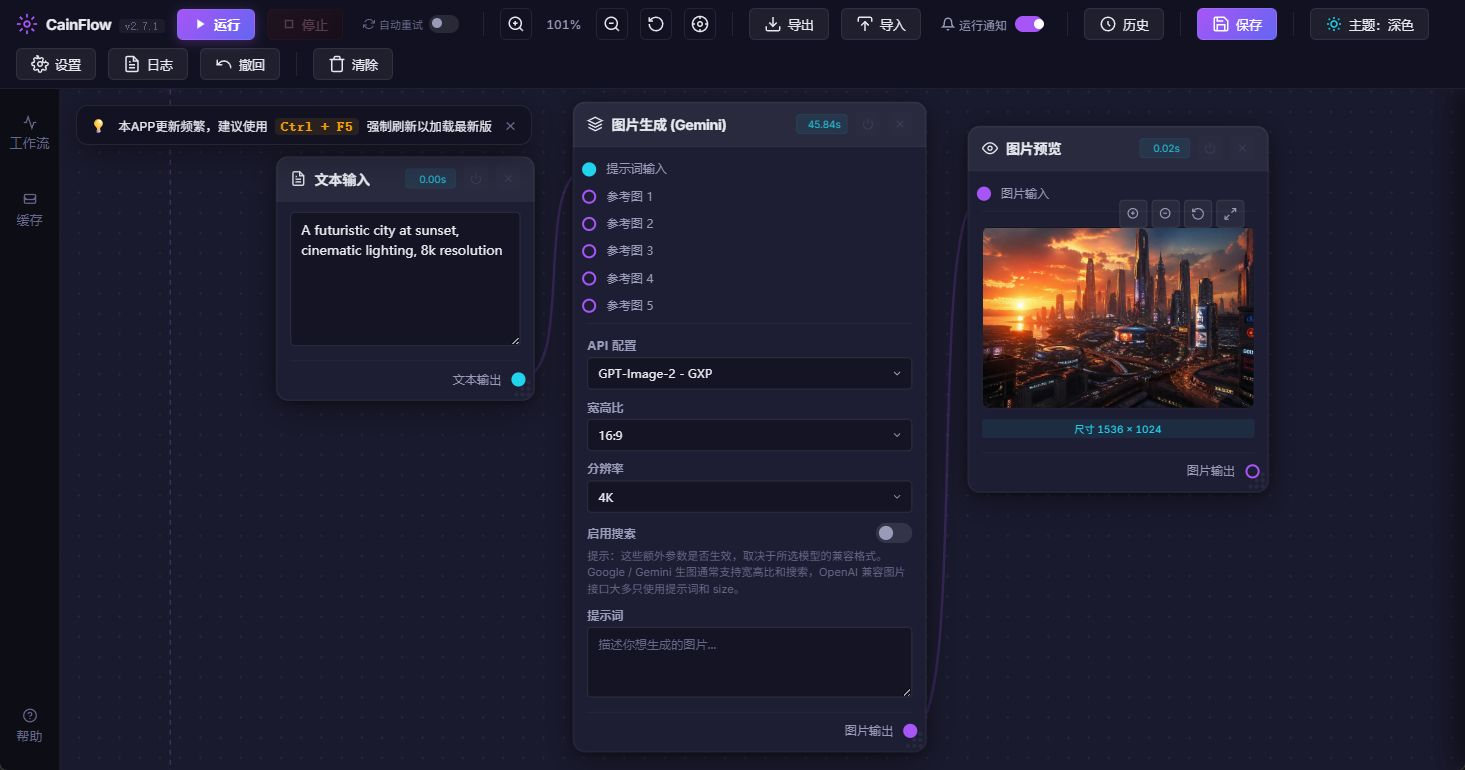
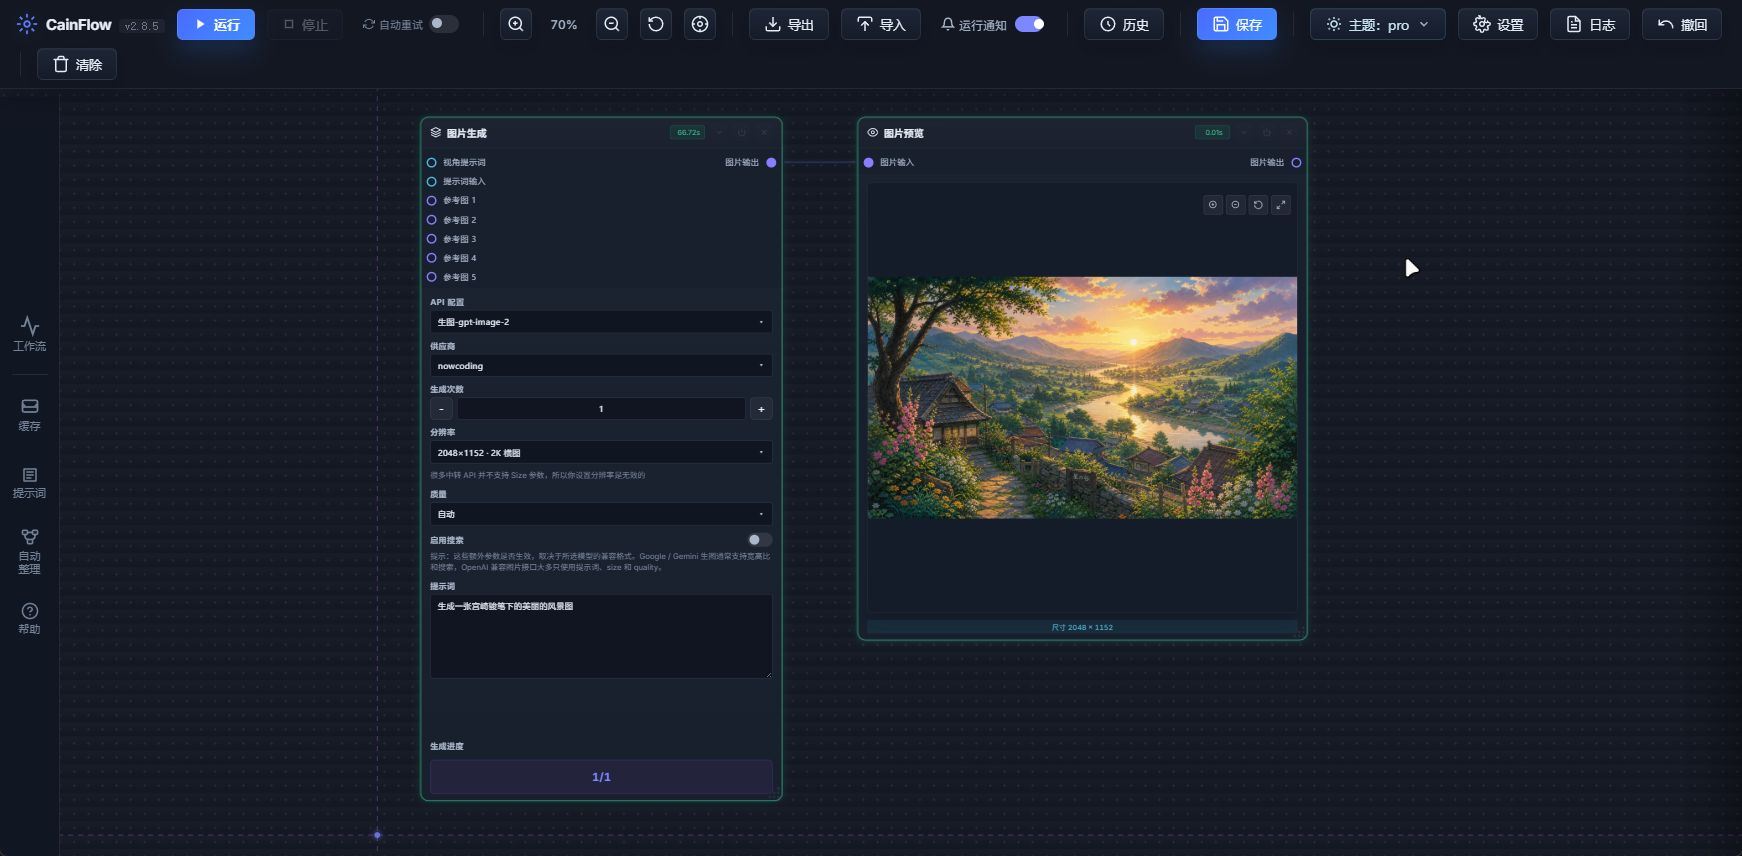
更新 README.md，新增用户手册；调整 CSS 以支持侧边栏和工具栏的动态显示；增强工具栏控制逻辑，确保画布缩放适应可视区域

diff --git a/js/features/ui/toolbar-controller.js b/js/features/ui/toolbar-controller.js
@@ -30,6 +30,27 @@ export function createToolbarControllerApi({
         }, 120);
     }
 
+    function isChromeActive(element, activeClass) {
+        if (!element) return false;
+        const body = documentRef.body;
+        return body.classList.contains(activeClass)
+            || element.matches(':hover')
+            || element.matches(':focus-within')
+            || element.querySelector('.btn.active, [aria-expanded="true"]');
+    }
+
+    function getViewportSafeInsets() {
+        const toolbar = documentRef.getElementById('toolbar');
+        const sidebar = documentRef.getElementById('side-bar');
+        const topInset = isChromeActive(toolbar, 'toolbar-peek-active')
+            ? ((toolbar?.offsetHeight || 48) + 8)
+            : 0;
+        const leftInset = isChromeActive(sidebar, 'sidebar-peek-active')
+            ? (sidebar?.offsetWidth || 60)
+            : 0;
+        return { topInset, leftInset };
+    }
+
     function zoomToFit(targetNodes = null) {
         let nodesToFit = targetNodes;
         if (!nodesToFit) {
@@ -64,13 +85,18 @@ export function createToolbarControllerApi({
         const worldH = (maxY - minY) + padding * 2;
         const viewW = canvasContainer.clientWidth;
         const viewH = canvasContainer.clientHeight;
+        const { topInset, leftInset } = getViewportSafeInsets();
+        const safeViewW = Math.max(120, viewW - leftInset);
+        const safeViewH = Math.max(120, viewH - topInset);
 
-        const zoom = Math.min(viewW / worldW, viewH / worldH, 1.2);
+        const zoom = Math.min(safeViewW / worldW, safeViewH / worldH, 1.2);
         const finalZoom = Math.max(0.1, zoom);
+        const safeCenterX = leftInset + safeViewW / 2;
+        const safeCenterY = topInset + safeViewH / 2;
 
         state.canvas.zoom = finalZoom;
-        state.canvas.x = viewW / 2 - (minX + maxX) / 2 * finalZoom;
-        state.canvas.y = viewH / 2 - (minY + maxY) / 2 * finalZoom;
+        state.canvas.x = safeCenterX - (minX + maxX) / 2 * finalZoom;
+        state.canvas.y = safeCenterY - (minY + maxY) / 2 * finalZoom;
 
         viewportApi.updateCanvasTransform();
     }

diff --git a/css/legacy.css b/css/legacy.css
@@ -4092,10 +4092,11 @@ input[type=number] {
 /* Drawer (Sidebar) System */
 .drawer {
     position: absolute;
-    top: 0;
-    bottom: 0;
+    top: var(--drawer-top-offset, 0px);
+    bottom: auto;
     right: -320px;
     width: 320px;
+    height: calc(100vh - var(--drawer-top-offset, 0px));
     background: var(--panel-bg);
     border-left: 1px solid var(--panel-border);
     box-shadow: var(--panel-shadow-soft);
@@ -4104,6 +4105,15 @@ input[type=number] {
     display: flex;
     flex-direction: column;
     overflow: hidden;
+}
+
+body.toolbar-pinned .drawer,
+body.toolbar-peek-active .drawer,
+body:has(#toolbar:hover) .drawer,
+body:has(#toolbar:focus-within) .drawer,
+body:has(#toolbar .btn.active) .drawer,
+body:has(#toolbar [aria-expanded="true"]) .drawer {
+    --drawer-top-offset: calc(var(--toolbar-height, 48px) + 8px);
 }
 
 .drawer.active {

diff --git a/USER_GUIDE.md b/USER_GUIDE.md
@@ -1,0 +1,204 @@
+# CainFlow 使用手册
+
+这份手册只讲一件事：第一次打开 CainFlow 之后，怎样把它跑起来，并成功生成第一张图片。
+
+## 第一步：启动 CainFlow
+
+如果你使用的是发布版：
+
+1. 解压下载好的压缩包。
+2. 双击 `CainFlow.exe`。
+3. 等待浏览器自动打开 `http://127.0.0.1:8767`。
+
+如果浏览器没有自动打开，就手动访问 `http://127.0.0.1:8767`。
+
+## 第二步：打开设置面板
+
+进入主界面后，先打开设置面板。
+
+你需要在这里完成两件事：
+
+1. 添加 API 供应商。
+2. 添加模型，并把模型绑定到供应商。
+
+只有这两步配置完成后，图片生成节点里才会出现可选模型。
+
+## 第三步：添加 API 供应商
+
+在设置面板里找到供应商配置区域，然后新增一个供应商。
+
+需要填写的内容通常有这几项：
+
+- **供应商名称**：随便起一个你看得懂的名字，比如 `OpenAI`、`Gemini`、`我的中转站`。
+- **API 密钥**：填写供应商给你的 Key。
+- **API 地址**：填写供应商的接口基址，不要填官网首页。
+- **自动补全**：建议保持开启。CainFlow 会根据模型类型自动补全请求路径。
+
+### 常见填写示例
+
+如果你用的是 OpenAI 兼容接口：
+
+- API 地址一般类似 `https://api.openai.com`
+- 也可能是第三方中转地址，例如你自己供应商提供的域名
+
+如果你用的是 Gemini / Google 接口：
+
+- API 地址一般类似 `https://generativelanguage.googleapis.com`
+
+### 这里最容易填错的地方
+
+- 不要把 API 地址填成官网首页。
+- 不要漏掉 `http://` 或 `https://`。
+- 如果是第三方中转平台，要确认这个平台真的支持你后面要用的图片模型。
+
+填完以后保存。
+
+## 第四步：添加模型
+
+供应商配置好之后，接着去模型配置区域添加模型。
+
+你有两种方式：
+
+### 方式一：自动获取模型列表
+
+如果供应商支持读取模型列表：
+
+1. 在该供应商卡片上点击“获取模型列表”。
+2. 等待 CainFlow 拉取模型。
+3. 在弹出的列表里选择你要用的模型并添加。
+
+这是最省事的方式，适合大多数情况。
+
+### 方式二：手动添加模型
+
+如果供应商不支持自动拉取，或者你已经知道模型名，就手动添加。
+
+你需要填写：
+
+- **模型名称**：显示在界面里的名字，可以自己起，例如 `生图-gpt-image-2`。
+- **模型代码（Model ID）**：供应商文档里的真实模型 ID，例如 `gpt-image-2`。
+- **绑定供应商**：选择你刚才添加的那个供应商。
+- **模型用途**：如果这个模型是用来生成图片的，这里一定要选 `生图`。
+
+这一项很关键。
+
+如果模型用途不是 `生图`，它就不会正确出现在图片生成节点里。
+
+## 第五步：检查模型是否配置成功
+
+配置完成后，可以简单确认一下：
+
+1. 回到画布。
+2. 新建一个“图片生成”节点。
+3. 查看节点里的模型下拉框。
+
+如果你刚刚添加的模型已经出现在下拉框里，说明供应商和模型配置成功了。
+
+如果这里还是空的，通常是下面这几种原因：
+
+- 模型没有绑定供应商。
+- 模型用途没有选 `生图`。
+- 供应商没有保存成功。
+- API 地址或配置有问题，导致模型列表虽然加了，但实际不可用。
+
+## 第六步：创建第一条生图流程
+
+现在开始正式生图。
+
+建议第一次只用 3 个节点：
+
+1. 文本输入
+2. 图片生成
+3. 图片预览
+
+### 具体操作
+
+1. 在画布空白处右键。
+2. 添加一个“文本输入”节点。
+3. 再添加一个“图片生成”节点。
+4. 再添加一个“图片预览”节点。
+
+然后把它们连起来：
+
+- 文本输入 -> 图片生成
+- 图片生成 -> 图片预览
+
+这就是最基础、最稳定的第一条生图链路。
+
+## 第七步：填写生图参数
+
+在“文本输入”节点里输入你的提示词。
+
+例如：
+
+```text
+a cinematic portrait of a girl, soft lighting, detailed hair, high quality
+```
+
+然后打开“图片生成”节点，重点检查下面几项：
+
+- **模型**：选择你刚才配置好的图片模型。
+- **分辨率**：先用常规尺寸测试，例如 `1024x1024`。
+- **质量**：如果你使用的是 OpenAI / GPT 图片模型，可以选 `auto`、`low`、`medium` 或 `high`。
+
+第一次建议这样选：
+
+- 分辨率用 `1024x1024`
+- 质量用 `auto`
+
+这样更稳，也更容易先测通流程。
+
+## 第八步：开始生成图片
+
+确认连线和参数都没问题后，点击运行。
+
+正常情况下：
+
+1. 图片生成节点开始请求。
+2. 节点顶部会显示运行状态点。
+3. 生成完成后，图片会出现在图片预览节点中。
+
+点击预览图可以进入大图查看。
+
+## 第九步：如果生成失败，先看这几个地方
+
+如果第一张图没有成功出来，优先检查下面几项：
+
+### 1. API Key 是否正确
+
+- 有没有填错
+- 有没有多余空格
+- 这把 key 是否真的属于当前供应商
+
+### 2. API 地址是否正确
+
+- 是否填写成了官网首页
+- 是否漏掉了协议头
+- 是否和当前供应商文档一致
+
+### 3. 模型和供应商是否匹配
+
+例如：
+
+- `gpt-image-2` 应该挂在 OpenAI 兼容供应商上
+- Gemini 模型应该挂在 Gemini / Google 对应接口上
+
+### 4. 模型用途是否选成了“生图”
+
+如果模型用途填错，图片生成节点通常就不会正常工作。
+
+### 5. 当前供应商是否真的支持这个图片模型
+
+很多中转平台并不是所有图片模型都支持，尤其是图片生成和图片编辑接口，支持情况可能不一样。
+
+## 第十步：跑通后你可以继续做什么
+
+当第一张图已经能正常出来后，你就可以继续扩展流程了，比如：
+
+- 在图片生成后面接“图片保存”节点
+- 一次生成多张图
+- 打开自动重试
+- 用历史记录面板回看结果
+- 给图片生成节点增加参考图
+
+建议先把最基础的“文本输入 -> 图片生成 -> 图片预览”跑通，再往后加功能，这样最不容易排错。

diff --git a/README.md b/README.md
@@ -1,9 +1,11 @@
 > [!NOTE]
-> 🙏 **特别感谢** 微信用户 **Ray** 为本项目提供了大量代码，并在模块化重构过程中给予了重要帮助与支持，感谢！
+> 🙏 **感谢** 微信用户 **Ray** 为本项目提供了代码，并在模块化重构过程中给予了重要帮助
 
 # CainFlow
 
 **CainFlow** 是一款受 ComfyUI 启发的轻量级节点式 AI 编排工具。基于原生网页技术构建，开箱即用、依赖简单、交互流畅，适合快速搭建与运行节点式 AI 工作流。
+
+[📖 查看使用手册](USER_GUIDE.md)
 
 ---
 
@@ -24,53 +26,44 @@
 
 ## ✨ 项目亮点
 
-CainFlow 是一款强调 **速度、稳定性、交互体验与本地可控性** 的轻量级节点式 AI 工作流工具。
+CainFlow 是一款强调 **轻量、稳定、可控与高效编排** 的节点式 AI 工作流工具。
 
-### ⚡ 性能与执行效率
-- **并行执行引擎**：互不干扰的任务分支可自动并行处理，显著提升复杂工作流运行效率。
-- **高流畅度画布体验**：通过 DOM 缓存与渲染优化，即使面对大型工作流也依然保持顺滑操作反馈。
-- **灵活节点编排**：支持文本处理、图片生成、视角控制、预览与保存等常用工作流节点。
+### ⚡ 高效执行
+- **并行工作流引擎**：独立分支可自动并行运行，并支持并发请求状态追踪。
+- **智能重试与结果透传**：可按需开启自动重试，部分请求失败时仍能把成功结果继续传递到下游。
+- **节点耗时记录**：记录节点与图片生成耗时，方便定位慢步骤与复盘生成结果。
 
-### 🛡️ 稳定性与可靠性
-- **智能心跳监测**：页面关闭或刷新后，服务端可自动清理遗留请求，减少资源浪费。
-- **运行前完整校验**：执行前自动检查 API Key 与输入项，降低因配置缺失导致的报错概率。
-- **内置代理转发**：内置后端代理转发，适合需要统一网络出口或代理环境的使用场景。
+### 🎨 顺滑交互
+- **无限画布与智能连线**：支持拖拽编排、快速聚焦、连接线剪断与更清晰的节点连接路径。
+- **自适应画布 UI**：顶部与左侧菜单栏可自动隐藏或固定显示，减少遮挡并提升画布空间利用率。
+- **内置图片预览与编辑**：支持全屏查看、历史回看、图片编辑、撤回与主题适配画板。
 
-### 🎨 交互与编辑体验
-- **无限画布 + 一键聚焦**：面对复杂工作流也能快速定位内容，按下 `F` 可立即回正视图。
-- **智能弹性节点布局**：节点支持内容感知尺寸调整，在报错、长文本等场景下可自动扩展。
-- **内置图片编辑器**：支持 20 步撤回、HSB 色环与形状绘制，无需依赖第三方工具。
-- **快捷剪断连接线**：按住 `Ctrl` 并右键划过连线即可快速断开连接。
-- **多级撤回 / 重做**：支持画布级 Undo / Redo，降低误操作影响。
-- **内置帮助中心**：左侧边栏集成操作说明与快捷键提示，便于快速上手。
-
-### 📦 资产与工作流管理
-- **智能重试系统（Auto-Retry+）**：支持自定义最大重试次数，适合高并发或网络波动场景。
-- **全量节点计时**：可记录每个步骤耗时，帮助定位性能瓶颈。
-- **增强剪贴板系统**：支持图片、文本与内部节点复制粘贴的优先级判断，并具备持久化能力。
-- **工作流管理**：支持保存、读取、重命名与预设复用，更适合长期积累与整理项目。
+### 🛡️ 本地可控
+- **本地运行与本地存储**：工作流、历史记录与配置默认保存在本机，适合个人创作与长期整理。
+- **可控代理策略**：支持内置代理转发；关闭 CainFlow 代理时会强制直连，不跟随系统代理。
+- **工作流资产管理**：支持保存、读取、重命名、复制粘贴与预设复用，方便沉淀常用流程。
 
 ---
-## 🆕 v2.8.2.8 更新内容
+## 🆕 v2.8.5 更新内容
 
-🎉 `v2.8.2.8` 已发布。本轮更新基于近期提交整理，重点增强了 **图片导入与预览、并发执行、画布连接交互、代理检测与发布打包** 等高频使用链路。
+🎉 `v2.8.5` 已发布。本轮更新重点打磨了 **图片预览与编辑、历史记录、并发请求、画布菜单、代理直连与 GPT 生图规则** 等高频使用链路。
 
 ### 更新内容
 
-- 🖼️ 新增 **图片导入 URL 预览功能**，并优化图片加载、刷新与占位符处理逻辑。
-- 📚 优化 **历史记录预览** 与媒体控制器，提升图片结果回看与复用体验。
-- ⚡ 新增 **并发请求能力**，优化生成进度显示，让批量生成与复杂工作流反馈更清晰。
-- 🧹 优化缓存清理与节点底部进度显示，减少长时间使用后的状态残留。
-- 🔌 优化拖拽输出口新建节点后的 **自动连接逻辑**，并改进连接线操作体验。
-- 🧭 升级右键菜单，提高画布空间利用率与节点编辑效率。
-- 🌐 增加并优化 **自动代理检测**，降低本地网络配置成本。
-- 🧩 调整图像生成节点请求处理逻辑，移除冗余的多部分表单选项，保持参考图上传链路更简洁。
-- 📦 优化发布打包脚本，移除构建过程中不必要的后端数据文件。
-- 🔢 统一版本号管理，当前应用版本更新至 `v2.8.2.8`。
+- 🖼️ 优化 **图片预览、全屏查看与图片编辑** 体验，进入图片查看时不再误触发顶部菜单栏。
+- 🎨 图片编辑画板升级为主题适配的柔和棋盘格，并修复粗细参数预览挤压滑动条的问题。
+- 📚 增强 **历史记录面板**，缩略图可显示每张图的生成耗时，全屏历史标题更紧凑，批量选择按钮支持再次点击退出。
+- ⚡ 优化 **并发请求逻辑**：未手动开启自动重试时不再自动重试，部分失败时会继续把成功结果传递到下游。
+- 🔴 升级节点顶部 **并发状态点 UI**，每行 5 个状态点，失败点可点击查看具体错误原因，并适配不同主题。
+- 🧠 OpenAI / GPT 图片生成新增质量参数，并更新分辨率预设与校验规则，支持符合规范的 4K 横图与竖图尺寸。
+- 🧭 优化顶部菜单栏与左侧菜单栏的自动隐藏、固定显示、触发距离和碰撞避让，减少遮挡通知、右键菜单和面板按钮的情况。
+- 🌐 调整代理行为：当 CainFlow 代理关闭时强制直连，不再跟随系统代理或 Clash 系统代理模式。
+- 🧩 修复图片预览节点、智能对话回复框、节点输入输出兼容与中文 UTF-8 显示相关问题，降低隐形数据兼容风险。
+- 🔢 统一版本号管理，当前应用版本更新至 `v2.8.5`。
 
 ### 总结
 
-这轮更新重点提升了日常使用中的顺滑程度：**图片更好预览、生成更好追踪、连线更好操作、网络与发布链路更稳**。
+这轮更新重点提升了日常使用中的确定性：**预览更沉浸、并发更透明、历史更可追踪、网络行为更可控、画布 UI 更少误挡**。
 
 ---
 
@@ -114,8 +107,8 @@ CainFlow 是一款强调 **速度、稳定性、交互体验与本地可控性**
 
 ## 📌 当前版本
 
-**最新版本：v2.8.2.8**  
-**发布日期：2026-05-18**
+**最新版本：v2.8.5**
+**发布日期：2026-05-20**
 
 ---
 